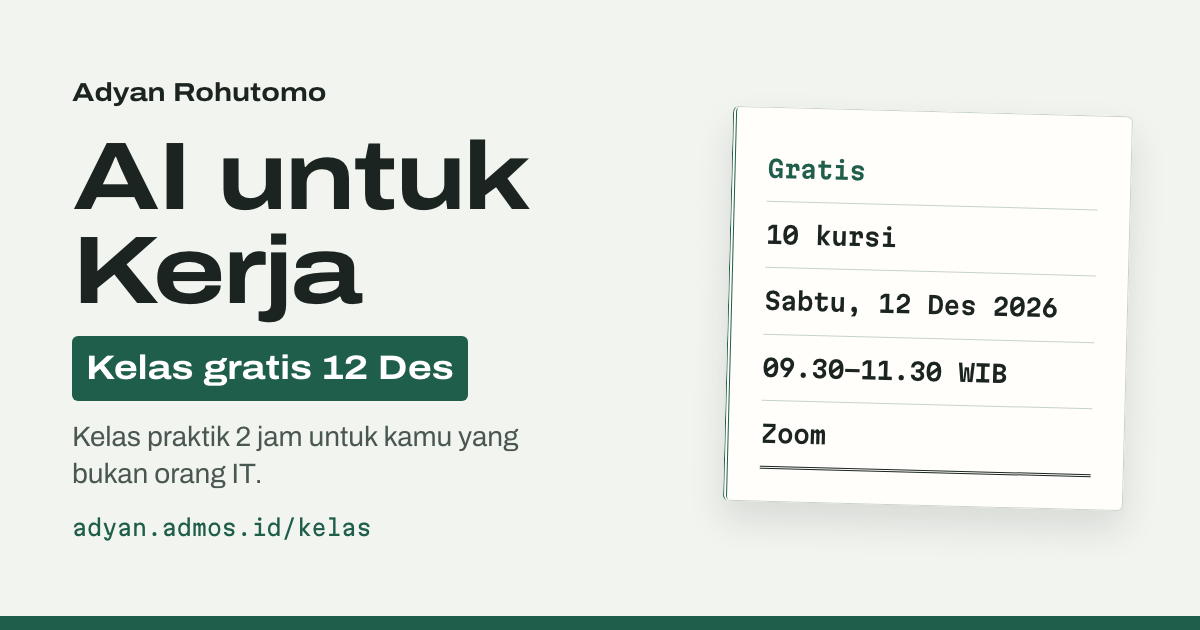
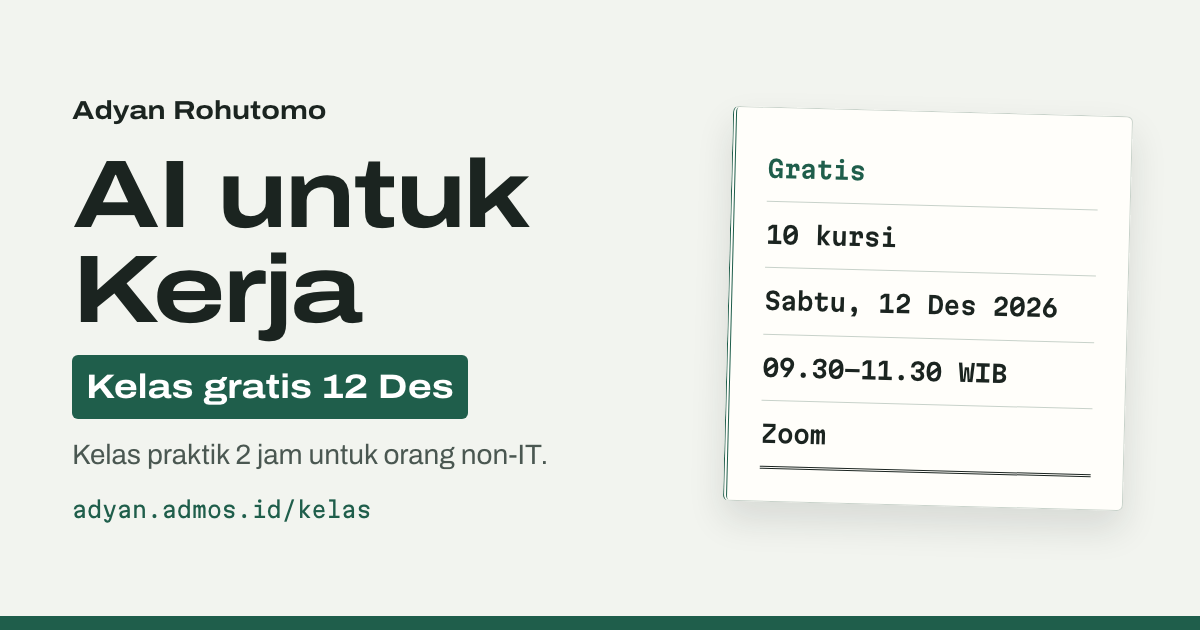
fix: say "orang non-IT" on /kelas (#23)

Changed region(s): [[0.0617, 0.1206, 0.4625, 0.8746]]

diff --git a/src/content/kelas.ts b/src/content/kelas.ts
@@ -6,11 +6,11 @@ import type { RichFaq } from "./types";
 export const kelas = {
   meta: {
     title: "AI untuk Kerja · Kelas gratis 12 Des",
-    description: "Kelas praktik 2 jam untuk kamu yang bukan orang IT.",
+    description: "Kelas praktik 2 jam untuk orang non-IT.",
   },
   hero: {
     title: "AI untuk Kerja",
-    subtitle: "Kelas praktik 2 jam untuk kamu yang bukan orang IT.",
+    subtitle: "Kelas praktik 2 jam untuk orang non-IT.",
     chips: ["Gratis", "10 kursi", "Sabtu, 12 Des 2026", "09.30-11.30 WIB", "Zoom"],
   },
   apply: {
@@ -20,7 +20,7 @@ export const kelas = {
   },
   audience: {
     title: "Untuk siapa",
-    body: "Usia 20-30. Pemilik usaha, atau kerja di finance, accounting, HR, GA dan admin. Bukan orang IT. Sudah langganan, atau siap langganan sebelum kelas, ChatGPT Plus atau Claude Pro. Bawa laptop.",
+    body: "Usia 20-30. Pemilik usaha, atau kerja di finance, accounting, HR, GA dan admin. Non-IT. Sudah langganan, atau siap langganan sebelum kelas, ChatGPT Plus atau Claude Pro. Bawa laptop.",
   },
   notFor: {
     title: "Bukan untuk",
@@ -37,7 +37,7 @@ export const kelas = {
   trainer: {
     title: "Trainer",
     name: "Adyan Rohutomo.",
-    body: "5+ tahun di Finance, pimpin Finance, HR dan GA. Sekarang senior engineer (ex Tokopedia) yang memakai AI tiap hari.",
+    body: "5+ tahun di Finance, terakhir pimpin Finance, HR dan GA. Sekarang senior engineer (ex Tokopedia) yang memakai AI tiap hari.",
   },
   steps: {
     title: "Cara daftar",

diff --git a/tests/unit/kelas.test.ts b/tests/unit/kelas.test.ts
@@ -66,6 +66,24 @@ describe("kelas copy", () => {
     ]);
   });
 
+  // Adyan's term (2026-11-28): "orang non-IT", not "bukan orang IT".
+  it("says the class is for orang non-IT, in the hero and the share preview", () => {
+    expect(kelas.hero.subtitle).toBe("Kelas praktik 2 jam untuk orang non-IT.");
+    expect(kelas.meta.description).toBe(kelas.hero.subtitle);
+  });
+
+  it("marks the audience as Non-IT", () => {
+    expect(kelas.audience.body).toContain(" Non-IT. ");
+  });
+
+  it("never says 'bukan orang IT'", () => {
+    expect(JSON.stringify(kelas)).not.toMatch(/bukan orang IT/i);
+  });
+
+  it("says the Finance, HR and GA lead was the trainer's last role", () => {
+    expect(kelas.trainer.body).toContain("5+ tahun di Finance, terakhir pimpin Finance, HR dan GA.");
+  });
+
   it("names no employer but Tokopedia", () => {
     const text = JSON.stringify(kelas);
     expect(text).toContain("ex Tokopedia");

diff --git a/tests/e2e/kelas.spec.ts b/tests/e2e/kelas.spec.ts
@@ -136,7 +136,7 @@ test("keeps the class copy readable without JavaScript", async ({ browser }) => 
   const page = await context.newPage();
   await page.goto("/kelas/");
   await expect(page.getByRole("heading", { level: 1 })).toHaveText("AI untuk Kerja");
-  await expect(page.getByText("Kelas praktik 2 jam untuk kamu yang bukan orang IT.").first()).toBeVisible();
+  await expect(page.getByText("Kelas praktik 2 jam untuk orang non-IT.").first()).toBeVisible();
   await expect(page.getByRole("heading", { level: 2, name: "Cara daftar" })).toBeVisible();
   // Without the script the build-time state decides: buttons before the deadline, the notice after.
   if (kelasClosed(new Date(), KELAS.closesAt)) {
